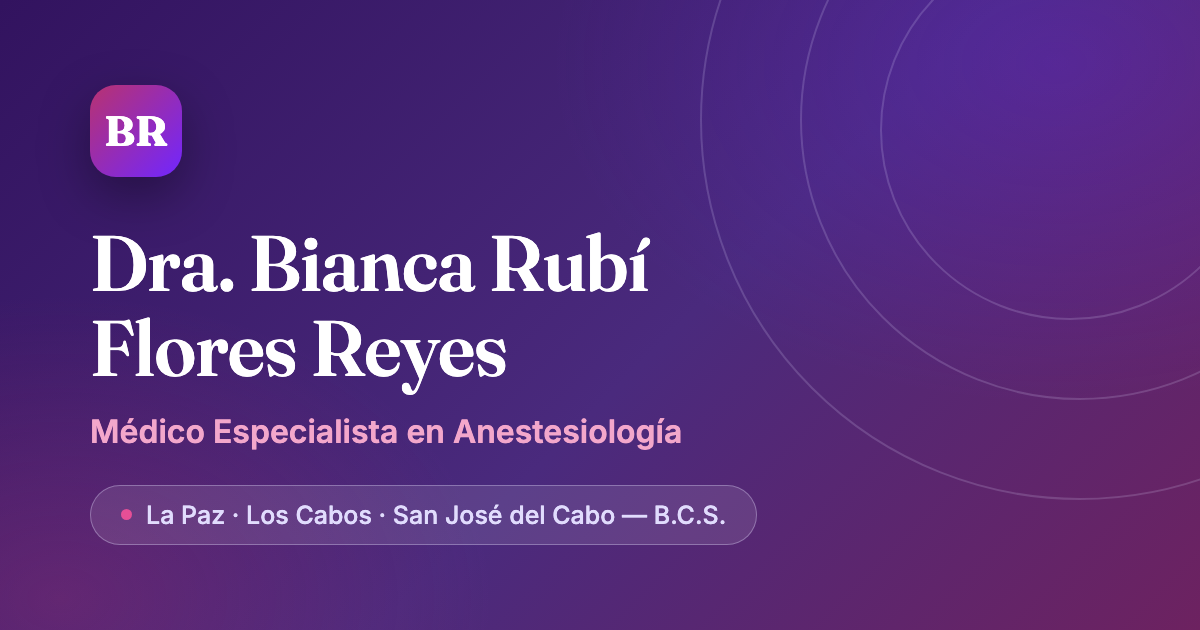
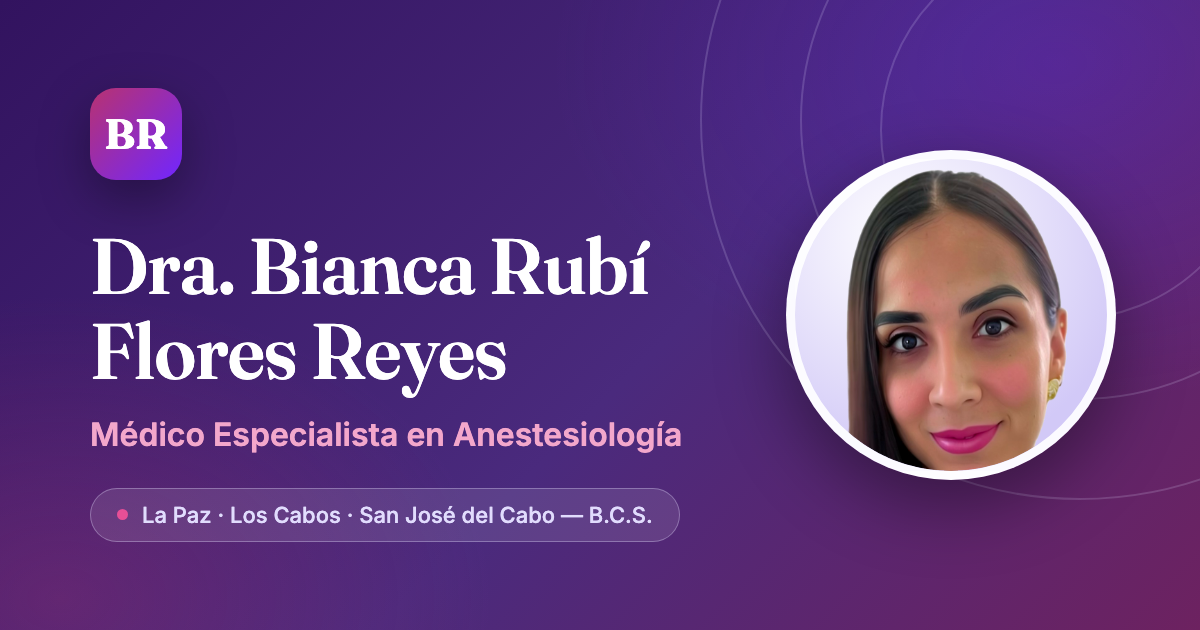
Restore Dra. Rubí to hero as circular portrait medallion + on share card
Salvaged clean head-and-shoulders zone from damaged source image
(checkerboard artifacts baked into lower half, mapped pixel-by-pixel).

diff --git a/assets/img/og-card.html b/assets/img/og-card.html
@@ -16,7 +16,7 @@
     display: flex; align-items: center;
     position: relative;
   }
-  .wrap { padding: 0 90px; position: relative; z-index: 2; }
+  .wrap { padding: 0 90px; position: relative; z-index: 2; max-width: 780px; }
   .mark {
     width: 92px; height: 92px; border-radius: 26px;
     background: linear-gradient(135deg, #b83270, #7126ff);
@@ -36,10 +36,10 @@
   }
   .loc {
     display: inline-flex; align-items: center; gap: 14px;
-    font-size: 25px; font-weight: 500; color: #e1dcfd;
+    font-size: 22px; font-weight: 500; color: #e1dcfd; white-space: nowrap;
     background: rgba(255,255,255,0.10);
     border: 1px solid rgba(225,220,253,0.35);
-    border-radius: 999px; padding: 14px 30px;
+    border-radius: 999px; padding: 13px 26px;
   }
   .loc .dot { width: 11px; height: 11px; border-radius: 50%; background: #e64f96; }
   .ring {
@@ -48,11 +48,19 @@
   .r1 { width: 560px; height: 560px; right: -160px; top: -160px; }
   .r2 { width: 380px; height: 380px; right: -60px; top: -60px; }
   .r3 { width: 760px; height: 760px; right: -260px; top: -260px; }
+  .portrait {
+    position: absolute; right: 84px; top: 50%; transform: translateY(-50%);
+    width: 330px; height: 330px; border-radius: 50%;
+    background: radial-gradient(circle at 35% 25%, #ffffff, #d2c9f7 75%);
+    border: 9px solid rgba(255,255,255,0.9);
+    box-shadow: 0 24px 70px rgba(0,0,0,0.4);
+    z-index: 3;
+  }
 </style>
 </head>
 <body>
   <div class="ring r1"></div><div class="ring r2"></div><div class="ring r3"></div>
-  <div class="wrap">
+  <img class="portrait" src="dra-bianca-portrait.png"><div class="wrap">
     <div class="mark">BR</div>
     <h1>Dra. Bianca Rubí<br>Flores Reyes</h1>
     <div class="sub">Médico Especialista en Anestesiología</div>

diff --git a/en/index.html b/en/index.html
@@ -98,7 +98,7 @@
         </div>
       </div>
       <figure class="hero-figure">
-        <div class="hero-emblem" aria-hidden="true"><span>BR</span></div>
+        <div class="hero-emblem"><img class="hero-portrait" src="../assets/img/dra-bianca-portrait.webp" width="900" height="900" alt="Dra. Bianca Rubí Flores Reyes, anesthesiologist" fetchpriority="high"></div>
         <div class="hero-badge badge-cert">Certified by the Consejo Mexicano de Anestesiología<small>Residency at UMAE No. 25 IMSS · UDEM</small></div>
         <div class="hero-badge badge-loc"><span aria-hidden="true">📍</span> La Paz · Los Cabos · San José del Cabo<small>Serving all of Baja California Sur</small></div>
       </figure>

diff --git a/index.html b/index.html
@@ -106,7 +106,7 @@
         </div>
       </div>
       <figure class="hero-figure">
-        <div class="hero-emblem" aria-hidden="true"><span>BR</span></div>
+        <div class="hero-emblem"><img class="hero-portrait" src="assets/img/dra-bianca-portrait.webp" width="900" height="900" alt="Dra. Bianca Rubí Flores Reyes, médico anestesióloga" fetchpriority="high"></div>
         <div class="hero-badge badge-cert">Aval del Consejo Mexicano de Anestesiología<small>Especialidad UMAE No. 25 IMSS · UDEM</small></div>
         <div class="hero-badge badge-loc"><span aria-hidden="true">📍</span> La Paz · Los Cabos · San José del Cabo<small>Cobertura en Baja California Sur</small></div>
       </figure>

diff --git a/assets/css/style.css b/assets/css/style.css
@@ -278,6 +278,15 @@ section { padding: clamp(3.5rem, 8vw, 6rem) 0; }
   display: grid;
   place-items: center;
 }
+.hero-portrait {
+  width: min(340px, 76%);
+  height: auto;
+  border-radius: 50%;
+  background: radial-gradient(circle at 35% 25%, #ffffff, var(--lav-200) 75%);
+  border: 8px solid rgba(255, 255, 255, 0.85);
+  box-shadow: 0 20px 50px rgba(50, 19, 95, 0.28);
+}
+
 .hero-emblem span {
   font-family: var(--font-display);
   font-size: clamp(4rem, 8vw, 6rem);
